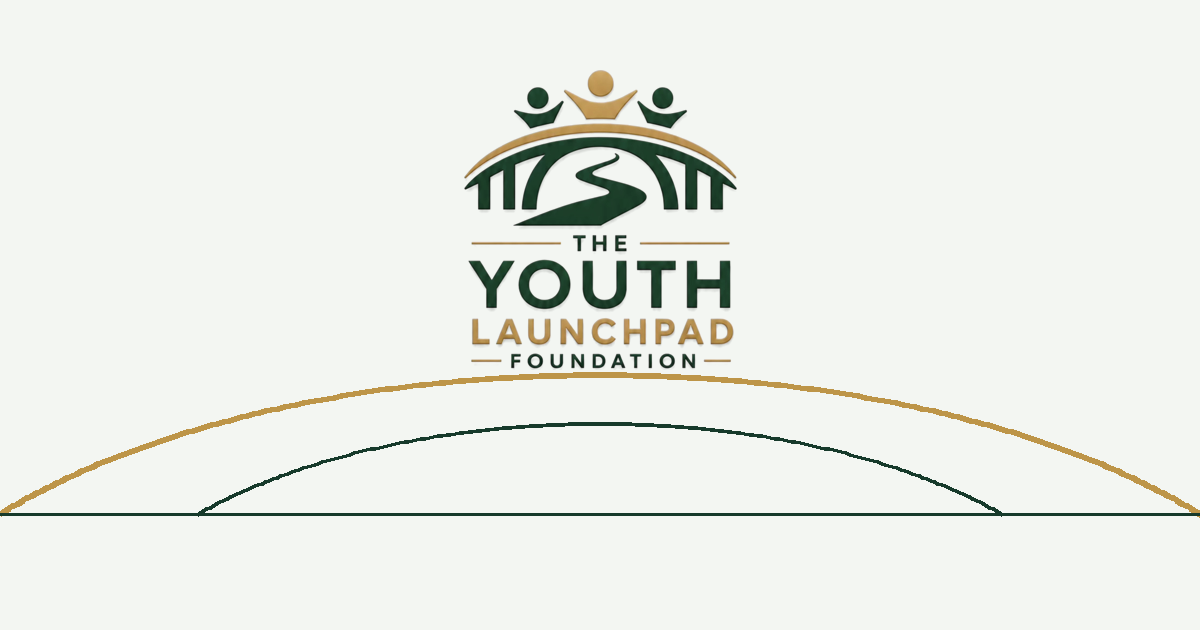
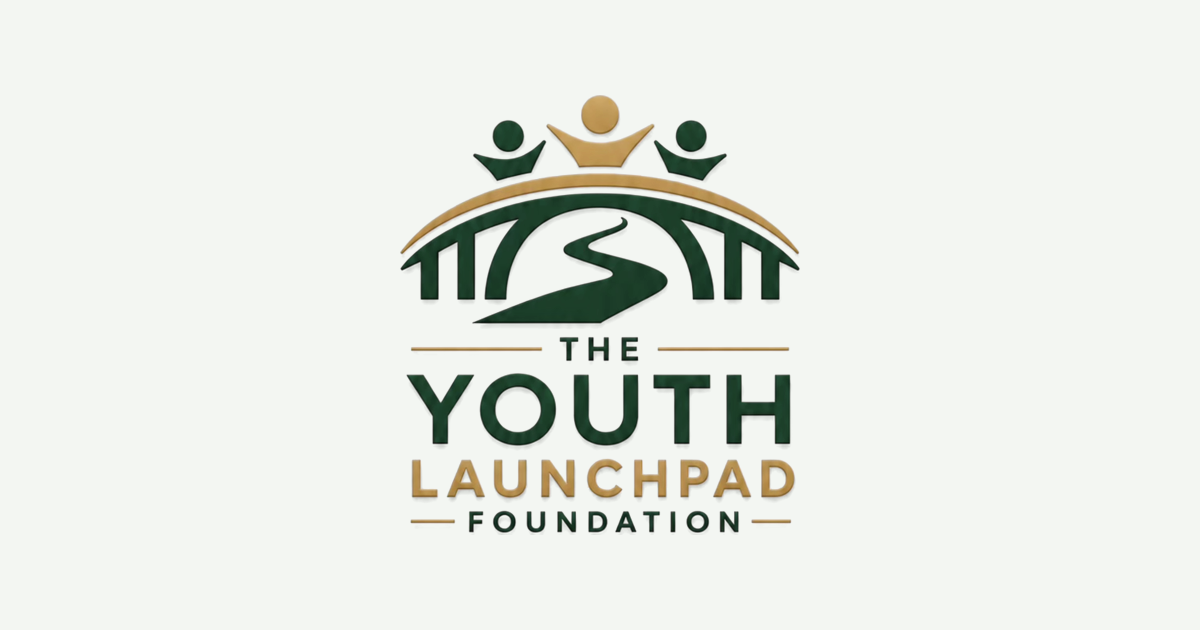
Use the real emblem in the hero and page headers
Replace the line-art bridge with the logo emblem beside the headline,
swap inner-page arc ornaments for a faint emblem watermark, and
regenerate the social preview image from the full logo.

diff --git a/site/css/styles.css b/site/css/styles.css
@@ -167,40 +167,32 @@ ul, ol { padding: 0; }
 .mmenu__contact a { color: #fff; text-decoration: none; font-weight: 600; }
 
 /* ---------- hero (home) ---------- */
-.hero { position: relative; overflow: hidden; padding-top: clamp(3rem, 7vw, 6rem); background: var(--mist); }
-.hero__inner { position: relative; z-index: 2; }
-.hero__copy { max-width: 52rem; }
-.hero__title { color: var(--forest); }
+.hero { position: relative; overflow: hidden; padding-block: clamp(3rem, 7vw, 6rem) clamp(3rem, 6vw, 5rem); background: var(--mist); }
+.hero__inner { position: relative; z-index: 2; display: grid; grid-template-columns: 1.15fr 0.85fr; gap: clamp(2rem, 5vw, 5rem); align-items: center; }
+.hero__copy { max-width: 40rem; }
+.hero__title { color: var(--forest); font-size: clamp(2.6rem, 5.2vw, 4.4rem); }
 .hero__title .line { display: block; }
-.hero__lede { margin-top: 1.6rem; max-width: 38em; }
+.hero__lede { margin-top: 1.6rem; max-width: 34em; }
 .hero__actions { margin-top: 2.2rem; }
-.hero__bridge { position: relative; margin-top: clamp(1rem, 3vw, 2.5rem); margin-inline: calc(-1 * var(--gutter)); }
-.hero__bridge svg { width: 100%; height: auto; }
-.hero__ground { height: 2px; background: var(--forest); opacity: 0.9; }
+.hero__mark { display: flex; justify-content: center; }
+.hero__mark img { width: 100%; max-width: 540px; height: auto; filter: drop-shadow(0 18px 30px rgba(22, 58, 43, 0.12)); }
 
-/* bridge line-art animation */
-.bridge .draw { stroke-dasharray: 1; stroke-dashoffset: 1; }
-.bridge .fade { opacity: 0; }
-.bridge.is-ready .draw { animation: draw 1.6s var(--ease-out) forwards; }
-.bridge.is-ready .draw--road { animation-delay: 0.6s; animation-duration: 1.8s; }
-.bridge.is-ready .draw--piers { animation-delay: 0.9s; animation-duration: 0.9s; }
-.bridge.is-ready .fade { animation: fadeup 0.9s var(--ease-out) forwards; animation-delay: 1.5s; }
-@keyframes draw { to { stroke-dashoffset: 0; } }
-@keyframes fadeup { from { opacity: 0; transform: translateY(8px); } to { opacity: 1; transform: none; } }
-
+/* one load sequence: headline, copy, buttons, then the mark settles in */
 .hero__title .line { opacity: 0; transform: translateY(18px); }
 .hero__lede, .hero__actions { opacity: 0; transform: translateY(12px); }
+.hero__mark img { opacity: 0; transform: translateY(14px) scale(0.985); }
 .page-index.is-loaded .hero__title .line { animation: rise 0.9s var(--ease-out) forwards; }
 .page-index.is-loaded .hero__title .line:nth-child(2) { animation-delay: 0.08s; }
 .page-index.is-loaded .hero__lede { animation: rise 0.9s var(--ease-out) 0.25s forwards; }
 .page-index.is-loaded .hero__actions { animation: rise 0.9s var(--ease-out) 0.4s forwards; }
+.page-index.is-loaded .hero__mark img { animation: rise 1.1s var(--ease-out) 0.3s forwards; }
 @keyframes rise { to { opacity: 1; transform: none; } }
 
 /* ---------- inner page head ---------- */
 .page-head { position: relative; overflow: hidden; padding: clamp(3rem, 7vw, 5.5rem) 0 clamp(2.5rem, 6vw, 4.5rem); background: var(--mist); }
 .page-head__inner { max-width: 50rem; }
 .page-head .lede { margin-top: 1.2rem; }
-.page-head__arc { position: absolute; right: -12vw; top: -16vw; width: 52vw; max-width: 760px; opacity: 0.5; pointer-events: none; }
+.page-head__mark { position: absolute; right: -4vw; top: 50%; transform: translateY(-50%); width: 34vw; max-width: 520px; opacity: 0.1; pointer-events: none; }
 .page-head__crumb { font-size: 0.9rem; color: var(--text-soft); margin-bottom: 1.2rem; }
 .page-head__crumb a { text-decoration: none; color: var(--pine); font-weight: 600; }
 .page-head__crumb a:hover { color: var(--gold-deep); }
@@ -398,13 +390,14 @@ ul, ol { padding: 0; }
   .nav__links, .nav__cta { display: none; }
   .nav__burger { display: flex; }
   .programs { grid-template-columns: 1fr; max-width: 30rem; margin-inline: auto; }
-  .serve, .split, .split--narrow, .detail, .founder, .cta-band__inner { grid-template-columns: 1fr; }
+  .serve, .split, .split--narrow, .detail, .founder, .cta-band__inner, .hero__inner { grid-template-columns: 1fr; }
+  .hero__mark img { max-width: 340px; }
   .founder__mark { display: none; }
   .ways li { grid-template-columns: 1fr; gap: 0.6rem; }
   .steps { grid-template-columns: 1fr; }
   .footer__inner { grid-template-columns: 1fr; }
   .sticky { position: static; }
-  .page-head__arc { width: 90vw; right: -30vw; top: -30vw; opacity: 0.5; }
+  .page-head__mark { width: 70vw; right: -25vw; opacity: 0.07; }
 }
 @media (max-width: 640px) {
   body { font-size: 1rem; }
@@ -421,6 +414,5 @@ ul, ol { padding: 0; }
 @media (prefers-reduced-motion: reduce) {
   html { scroll-behavior: auto; }
   *, *::before, *::after { animation-duration: 0.001ms !important; animation-delay: 0s !important; transition-duration: 0.001ms !important; }
-  .hero__title .line, .hero__lede, .hero__actions, .bridge .fade { opacity: 1; transform: none; }
-  .bridge .draw { stroke-dashoffset: 0; }
+  .hero__title .line, .hero__lede, .hero__actions, .hero__mark img { opacity: 1; transform: none; }
 }

diff --git a/tools/pages/index.html b/tools/pages/index.html
@@ -7,8 +7,7 @@ description: The Youth LaunchPad Foundation is developing financial literacy, ca
       <div class="container hero__inner">
         <div class="hero__copy">
           <h1 class="h1 hero__title" id="hero-title">
-            <span class="line">Build the skills to</span>
-            <span class="line">launch what’s next.</span>
+            <span class="line">Build the skills to launch what’s next.</span>
           </h1>
           <p class="lede hero__lede">Youth LaunchPad is developing practical learning in financial literacy, career readiness, mentorship, and life skills, so students and young adults step into their futures with knowledge, confidence, and real professional exposure.</p>
           <div class="btn-row hero__actions">
@@ -16,29 +15,8 @@ description: The Youth LaunchPad Foundation is developing financial literacy, ca
             <a class="btn btn--ghost" href="programs.html">Explore programs</a>
           </div>
         </div>
-        <div class="hero__bridge" aria-hidden="true">
-          <svg class="bridge" viewBox="0 80 1400 360" fill="none" preserveAspectRatio="xMidYMax meet">
-            <!-- three figures on the deck -->
-            <g class="fade" stroke="#163a2b" stroke-width="5" stroke-linecap="round">
-              <circle cx="700" cy="112" r="16" fill="#bd9548" stroke="none" />
-              <path d="M 668 170 L 700 142 L 732 170" stroke="#bd9548" />
-              <circle cx="604" cy="146" r="12" fill="#163a2b" stroke="none" />
-              <path d="M 580 194 L 604 172 L 628 194" />
-              <circle cx="796" cy="146" r="12" fill="#163a2b" stroke="none" />
-              <path d="M 772 194 L 796 172 L 820 194" />
-            </g>
-            <!-- deck -->
-            <path class="draw draw--deck" d="M 0 410 C 350 110, 1050 110, 1400 410" stroke="#bd9548" stroke-width="5" stroke-linecap="round" />
-            <!-- inner arch -->
-            <path class="draw draw--deck" d="M 230 410 C 480 215, 920 215, 1170 410" stroke="#163a2b" stroke-width="3.5" stroke-linecap="round" />
-            <!-- piers -->
-            <g class="draw draw--piers" stroke="#163a2b" stroke-width="3.5" stroke-linecap="round">
-              <path d="M 120 326 V 410 M 200 285 V 410 M 280 254 V 410 M 1120 254 V 410 M 1200 285 V 410 M 1280 326 V 410" />
-            </g>
-            <!-- the road, flowing under the arch toward what's next -->
-            <path class="draw draw--road" d="M 300 440 C 520 440, 540 380, 700 372 C 860 364, 800 330, 700 322 C 640 318, 660 300, 700 296" stroke="#bd9548" stroke-width="5" stroke-linecap="round" />
-          </svg>
-          <div class="hero__ground"></div>
+        <div class="hero__mark" aria-hidden="true">
+          <img src="images/emblem.png" alt="" width="887" height="513" fetchpriority="high" />
         </div>
       </div>
     </section>

diff --git a/site/index.html b/site/index.html
@@ -83,8 +83,7 @@
       <div class="container hero__inner">
         <div class="hero__copy">
           <h1 class="h1 hero__title" id="hero-title">
-            <span class="line">Build the skills to</span>
-            <span class="line">launch what’s next.</span>
+            <span class="line">Build the skills to launch what’s next.</span>
           </h1>
           <p class="lede hero__lede">Youth LaunchPad is developing practical learning in financial literacy, career readiness, mentorship, and life skills, so students and young adults step into their futures with knowledge, confidence, and real professional exposure.</p>
           <div class="btn-row hero__actions">
@@ -92,29 +91,8 @@
             <a class="btn btn--ghost" href="programs.html">Explore programs</a>
           </div>
         </div>
-        <div class="hero__bridge" aria-hidden="true">
-          <svg class="bridge" viewBox="0 80 1400 360" fill="none" preserveAspectRatio="xMidYMax meet">
-            <!-- three figures on the deck -->
-            <g class="fade" stroke="#163a2b" stroke-width="5" stroke-linecap="round">
-              <circle cx="700" cy="112" r="16" fill="#bd9548" stroke="none" />
-              <path d="M 668 170 L 700 142 L 732 170" stroke="#bd9548" />
-              <circle cx="604" cy="146" r="12" fill="#163a2b" stroke="none" />
-              <path d="M 580 194 L 604 172 L 628 194" />
-              <circle cx="796" cy="146" r="12" fill="#163a2b" stroke="none" />
-              <path d="M 772 194 L 796 172 L 820 194" />
-            </g>
-            <!-- deck -->
-            <path class="draw draw--deck" d="M 0 410 C 350 110, 1050 110, 1400 410" stroke="#bd9548" stroke-width="5" stroke-linecap="round" />
-            <!-- inner arch -->
-            <path class="draw draw--deck" d="M 230 410 C 480 215, 920 215, 1170 410" stroke="#163a2b" stroke-width="3.5" stroke-linecap="round" />
-            <!-- piers -->
-            <g class="draw draw--piers" stroke="#163a2b" stroke-width="3.5" stroke-linecap="round">
-              <path d="M 120 326 V 410 M 200 285 V 410 M 280 254 V 410 M 1120 254 V 410 M 1200 285 V 410 M 1280 326 V 410" />
-            </g>
-            <!-- the road, flowing under the arch toward what's next -->
-            <path class="draw draw--road" d="M 300 440 C 520 440, 540 380, 700 372 C 860 364, 800 330, 700 322 C 640 318, 660 300, 700 296" stroke="#bd9548" stroke-width="5" stroke-linecap="round" />
-          </svg>
-          <div class="hero__ground"></div>
+        <div class="hero__mark" aria-hidden="true">
+          <img src="images/emblem.png" alt="" width="887" height="513" fetchpriority="high" />
         </div>
       </div>
     </section>

diff --git a/tools/pages/about.html b/tools/pages/about.html
@@ -3,10 +3,7 @@ title: About — Youth LaunchPad
 description: Our mission, vision, story, and leadership. The Youth LaunchPad Foundation, Inc. is a Florida nonprofit founded by Michael Liebert to expand access to financial education, career readiness, and mentorship.
 ---
     <section class="page-head" aria-labelledby="page-title">
-      <svg class="page-head__arc" viewBox="0 0 800 400" fill="none" aria-hidden="true">
-        <path d="M 0 400 C 200 80, 600 80, 800 400" stroke="#bd9548" stroke-width="3" />
-        <path d="M 130 400 C 280 170, 520 170, 670 400" stroke="#163a2b" stroke-width="2" opacity="0.45" />
-      </svg>
+      <img class="page-head__mark" src="images/emblem.png" alt="" aria-hidden="true" loading="lazy" />
       <div class="container page-head__inner">
         <h1 class="h1">A bridge between the classroom and everything after it.</h1>
         <p class="lede">The Youth LaunchPad Foundation empowers young people through education, mentorship, athletics, and career-readiness programs that build confidence, strengthen communities, and prepare students for lifelong success.</p>

diff --git a/tools/pages/students.html b/tools/pages/students.html
@@ -3,10 +3,7 @@ title: For Students — Youth LaunchPad
 description: What students, student-athletes, and young adults learn in Youth LaunchPad programs, and how to bring a program to your school or team.
 ---
     <section class="page-head" aria-labelledby="page-title">
-      <svg class="page-head__arc" viewBox="0 0 800 400" fill="none" aria-hidden="true">
-        <path d="M 0 400 C 200 80, 600 80, 800 400" stroke="#bd9548" stroke-width="3" />
-        <path d="M 130 400 C 280 170, 520 170, 670 400" stroke="#163a2b" stroke-width="2" opacity="0.45" />
-      </svg>
+      <img class="page-head__mark" src="images/emblem.png" alt="" aria-hidden="true" loading="lazy" />
       <div class="container page-head__inner">
         <h1 class="h1" id="page-title">The things nobody teaches you, taught.</h1>
         <p class="lede">How to budget your first paycheck. What a credit score actually is. How to write a resume when you have never had a job, and what to say when an interviewer asks about your weaknesses. Youth LaunchPad programs are built around the questions students really have.</p>

diff --git a/tools/pages/partners.html b/tools/pages/partners.html
@@ -3,10 +3,7 @@ title: Schools & Partners — Youth LaunchPad
 description: How schools, universities, employers, and community organizations partner with Youth LaunchPad on financial-literacy workshops, career preparation, mock interviews, and mentorship.
 ---
     <section class="page-head" aria-labelledby="page-title">
-      <svg class="page-head__arc" viewBox="0 0 800 400" fill="none" aria-hidden="true">
-        <path d="M 0 400 C 200 80, 600 80, 800 400" stroke="#bd9548" stroke-width="3" />
-        <path d="M 130 400 C 280 170, 520 170, 670 400" stroke="#163a2b" stroke-width="2" opacity="0.45" />
-      </svg>
+      <img class="page-head__mark" src="images/emblem.png" alt="" aria-hidden="true" loading="lazy" />
       <div class="container page-head__inner">
         <h1 class="h1" id="page-title">Schools and partners</h1>
         <p class="lede">Every Youth LaunchPad program reaches students through a partner. Schools give us the classroom, employers give us the professionals, and community organizations give us the trust. Here is how each one works.</p>

diff --git a/tools/pages/programs.html b/tools/pages/programs.html
@@ -3,10 +3,7 @@ title: Programs — Youth LaunchPad
 description: Personal Finance 101, the Career Readiness LaunchPad, and Interview Readiness: three developed curricula for students and young adults, with mentorship and athletics programs planned.
 ---
     <section class="page-head" aria-labelledby="page-title">
-      <svg class="page-head__arc" viewBox="0 0 800 400" fill="none" aria-hidden="true">
-        <path d="M 0 400 C 200 80, 600 80, 800 400" stroke="#bd9548" stroke-width="3" />
-        <path d="M 130 400 C 280 170, 520 170, 670 400" stroke="#163a2b" stroke-width="2" opacity="0.45" />
-      </svg>
+      <img class="page-head__mark" src="images/emblem.png" alt="" aria-hidden="true" loading="lazy" />
       <div class="container page-head__inner">
         <h1 class="h1" id="page-title">Programs</h1>
         <p class="lede">Practical, real-world learning in money, careers, and the conversations that decide both. Three curricula are developed and ready to deliver with partners; two more programs are on the way.</p>

diff --git a/tools/pages/contact.html b/tools/pages/contact.html
@@ -3,10 +3,7 @@ title: Contact — Youth LaunchPad
 description: Contact The Youth LaunchPad Foundation about programming, partnerships, volunteering, or other ways to get involved.
 ---
     <section class="page-head" aria-labelledby="page-title">
-      <svg class="page-head__arc" viewBox="0 0 800 400" fill="none" aria-hidden="true">
-        <path d="M 0 400 C 200 80, 600 80, 800 400" stroke="#bd9548" stroke-width="3" />
-        <path d="M 130 400 C 280 170, 520 170, 670 400" stroke="#163a2b" stroke-width="2" opacity="0.45" />
-      </svg>
+      <img class="page-head__mark" src="images/emblem.png" alt="" aria-hidden="true" loading="lazy" />
       <div class="container page-head__inner">
         <h1 class="h1" id="page-title">Contact us</h1>
         <p class="lede">We welcome inquiries from students, educators, volunteers, employers, and community organizations interested in learning more about The Youth LaunchPad Foundation and exploring future opportunities.</p>

diff --git a/tools/pages/resources.html b/tools/pages/resources.html
@@ -3,10 +3,7 @@ title: Resources — Youth LaunchPad
 description: Curriculum outlines for Personal Finance 101, the Career Readiness LaunchPad, and Interview Readiness, available to schools and partners on request.
 ---
     <section class="page-head" aria-labelledby="page-title">
-      <svg class="page-head__arc" viewBox="0 0 800 400" fill="none" aria-hidden="true">
-        <path d="M 0 400 C 200 80, 600 80, 800 400" stroke="#bd9548" stroke-width="3" />
-        <path d="M 130 400 C 280 170, 520 170, 670 400" stroke="#163a2b" stroke-width="2" opacity="0.45" />
-      </svg>
+      <img class="page-head__mark" src="images/emblem.png" alt="" aria-hidden="true" loading="lazy" />
       <div class="container page-head__inner">
         <h1 class="h1" id="page-title">Resources</h1>
         <p class="lede">Three developed curriculum outlines, available to schools, colleges, and partners who want to see exactly what a program covers before bringing it to their students.</p>

diff --git a/site/students.html b/site/students.html
@@ -79,10 +79,7 @@
 
   <main id="main">
     <section class="page-head" aria-labelledby="page-title">
-      <svg class="page-head__arc" viewBox="0 0 800 400" fill="none" aria-hidden="true">
-        <path d="M 0 400 C 200 80, 600 80, 800 400" stroke="#bd9548" stroke-width="3" />
-        <path d="M 130 400 C 280 170, 520 170, 670 400" stroke="#163a2b" stroke-width="2" opacity="0.45" />
-      </svg>
+      <img class="page-head__mark" src="images/emblem.png" alt="" aria-hidden="true" loading="lazy" />
       <div class="container page-head__inner">
         <h1 class="h1" id="page-title">The things nobody teaches you, taught.</h1>
         <p class="lede">How to budget your first paycheck. What a credit score actually is. How to write a resume when you have never had a job, and what to say when an interviewer asks about your weaknesses. Youth LaunchPad programs are built around the questions students really have.</p>

diff --git a/tools/pages/get-involved.html b/tools/pages/get-involved.html
@@ -3,10 +3,7 @@ title: Get Involved — Youth LaunchPad
 description: Request a workshop, become a partner, volunteer or mentor, or start a corporate sponsorship conversation with The Youth LaunchPad Foundation.
 ---
     <section class="page-head" aria-labelledby="page-title">
-      <svg class="page-head__arc" viewBox="0 0 800 400" fill="none" aria-hidden="true">
-        <path d="M 0 400 C 200 80, 600 80, 800 400" stroke="#bd9548" stroke-width="3" />
-        <path d="M 130 400 C 280 170, 520 170, 670 400" stroke="#163a2b" stroke-width="2" opacity="0.45" />
-      </svg>
+      <img class="page-head__mark" src="images/emblem.png" alt="" aria-hidden="true" loading="lazy" />
       <div class="container page-head__inner">
         <h1 class="h1" id="page-title">Get involved</h1>
         <p class="lede">Four ways to work with us, one short form. Choose the one that fits and we will reply by email.</p>

diff --git a/site/js/main.js b/site/js/main.js
@@ -44,21 +44,8 @@
   var year = document.getElementById("year");
   if (year) year.textContent = String(new Date().getFullYear());
 
-  /* ---------- hero bridge ---------- */
-  var bridge = document.querySelector(".bridge");
-  if (bridge) {
-    bridge.querySelectorAll(".draw").forEach(function (p) {
-      var len = typeof p.getTotalLength === "function" ? p.getTotalLength() : 1000;
-      p.style.strokeDasharray = len;
-      p.style.strokeDashoffset = len;
-    });
-    requestAnimationFrame(function () {
-      document.body.classList.add("is-loaded");
-      bridge.classList.add("is-ready");
-    });
-  } else {
-    document.body.classList.add("is-loaded");
-  }
+  /* ---------- hero load sequence ---------- */
+  requestAnimationFrame(function () { document.body.classList.add("is-loaded"); });
 
   /* ---------- forms ---------- */
   var form = document.querySelector("form.inquiry");
